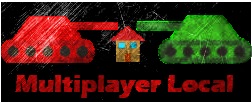
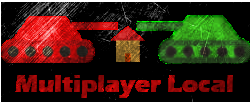
Einfügen der ButtonImage die ich verlangt hatte

diff --git a/src/Views/PreGameView.java b/src/Views/PreGameView.java
@@ -33,7 +33,7 @@ public class PreGameView extends JPanel implements ActionListener{
         GridBagConstraints g = new GridBagConstraints();
 
         //Initialisierung/Erzeugen des Inhalts
-            start = new MyButton("","START",startImg);
+            start = new MyButton("KnopfSpielStartenMetallic1.png","START",startImg);
             start.addActionListener(this);
             //Einstellen von der Anordnung
 
@@ -49,7 +49,7 @@ public class PreGameView extends JPanel implements ActionListener{
             this.add(start,g);
 
         //Initialisierung/Erzeugen des Inhalts
-            gameSettings = new MyButton("","Spieleinstellungen",gameSettingsImg);
+            gameSettings = new MyButton("KnopfSpielEinstellungenMetallic1.png","Spieleinstellungen",gameSettingsImg);
             gameSettings.addActionListener(this);
             //Einstellen von der Anordnung
 

diff --git a/src/Views/Sound.java b/src/Views/Sound.java
@@ -46,14 +46,9 @@ public class Sound {
             clip.start();
         }
     }
-    // Volume Slider test
-    public float getVolume() {
-        FloatControl gainControl = (FloatControl) clip.getControl(FloatControl.Type.MASTER_GAIN);
-        return (float) Math.pow(10f, gainControl.getValue() / 20f);
-    }
-
+    // Methode um mit dem Slider das Volumen in gewünschte Lautstätke setzen
     public void setVolume(float volume) {
-        if (volume < 0f || volume > 1f)
+        if (volume < 0f || volume > 1f)// Abfrage ob gewünschtes Volumen zwischen 0% und 100% ist
             throw new IllegalArgumentException("Volume not valid: " + volume);
         FloatControl gainControl = (FloatControl) clip.getControl(FloatControl.Type.MASTER_GAIN);
         gainControl.setValue(20f * (float) Math.log10(volume));

diff --git a/src/Views/GameUiView.java b/src/Views/GameUiView.java
@@ -3,6 +3,7 @@ package Views;
 import Window.MyButton;
 
 import javax.swing.*;
+import java.awt.*;
 import java.awt.event.ActionEvent;
 import java.awt.event.ActionListener;
 
@@ -13,17 +14,16 @@ public class GameUiView extends JPanel implements ActionListener {
     public  GameUiView()
     {
 
+        erzeugenOverlay();
     }
 
 
     private void erzeugenOverlay()
     {
-        fire = new MyButton("","",fireImg);
+        fire = new MyButton("","Fire Button",fireImg);
         fire.addActionListener(this);
+        this.add(fire);
     }
-
-
-
 
 
 

diff --git a/src/Views/LogInView.java b/src/Views/LogInView.java
@@ -105,7 +105,7 @@ public class LogInView extends JPanel implements ActionListener {
         //Initialisierung/Erzeugen des Inhalts
             ImageIcon singleplayerImg = new ImageIcon();
 
-            submit = new MyButton("KnopfSingleplayerMetallic1.png", "LogIn", singleplayerImg);
+            submit = new MyButton("KnopfProfilLoginMetallic1.png", "LogIn", singleplayerImg);
             submit.addActionListener(this);
             //Einstellen von der Anordnung
 

diff --git a/src/Views/ProfilView.java b/src/Views/ProfilView.java
@@ -78,7 +78,7 @@ public class ProfilView extends JPanel implements ActionListener {
         //Initialisierung/Erzeugen des Inhalts
             panzer = new JLabel();
 
-                panzerImg = new ImageIcon("res/buttons/KnopfSingleplayerMetallic1.png" );
+                panzerImg = new ImageIcon("res/buttons/PanzerDefaultMetallic1.png" );
 
             panzer.setIcon(panzerImg);
             //Erstellen der Anordnung

diff --git a/src/Views/MultiPlayerView.java b/src/Views/MultiPlayerView.java
@@ -45,7 +45,7 @@ public class MultiPlayerView extends JPanel implements ActionListener {
         //Einfügen der Inhalte in Abhängigkeit der GridBags
         this.add(lokal,g);
 
-        lan = new MyButton("","Lan Spiel starten",lanImg);
+        lan = new MyButton("KnopfMultiplayerLANMetallic1.png","Lan Spiel starten",lanImg);
         lan.addActionListener(this);
         //Einstellen von der Anordnung
 

diff --git a/src/Model/GameModel.java b/src/Model/GameModel.java
@@ -1,6 +1,7 @@
 package Model;
 
 import Views.GameLoop;
+import Views.GameUiView;
 import Views.GameView;
 
 
@@ -32,7 +33,6 @@ public class GameModel {
 
         height = MyWindow.HEIGHT-MyWindow.HEIGHT/4;
         gameView = new GameView();
-
 
         map = new GameMap(this);
 
